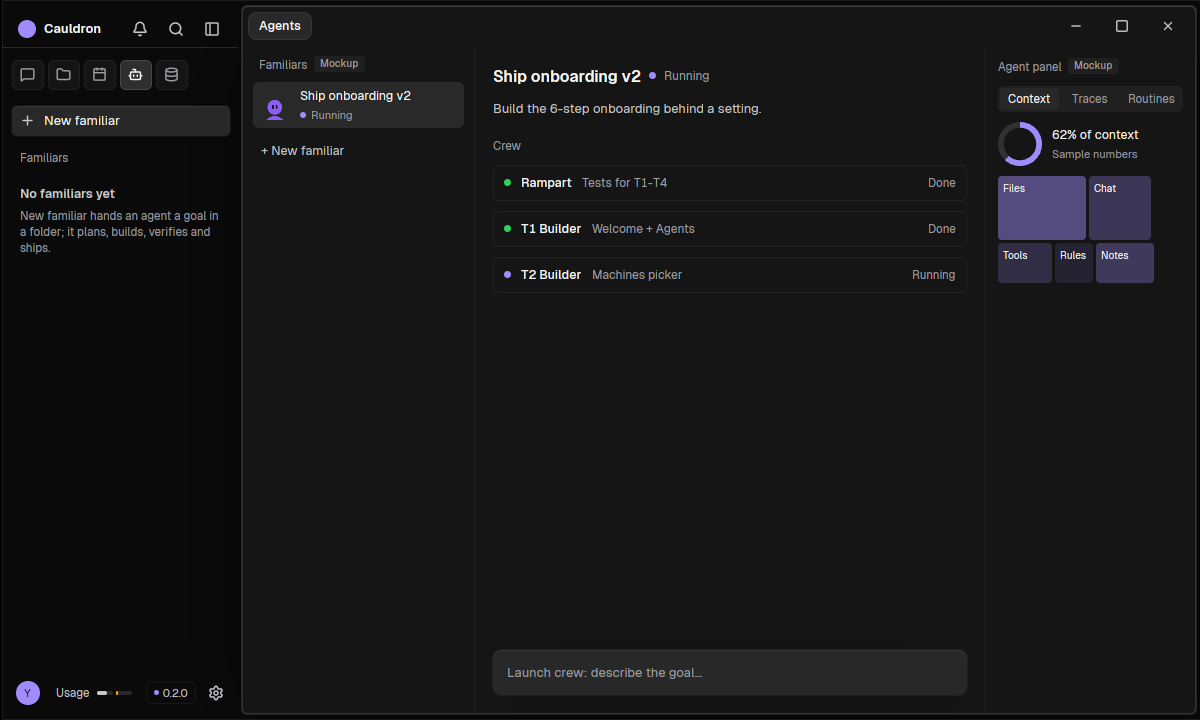
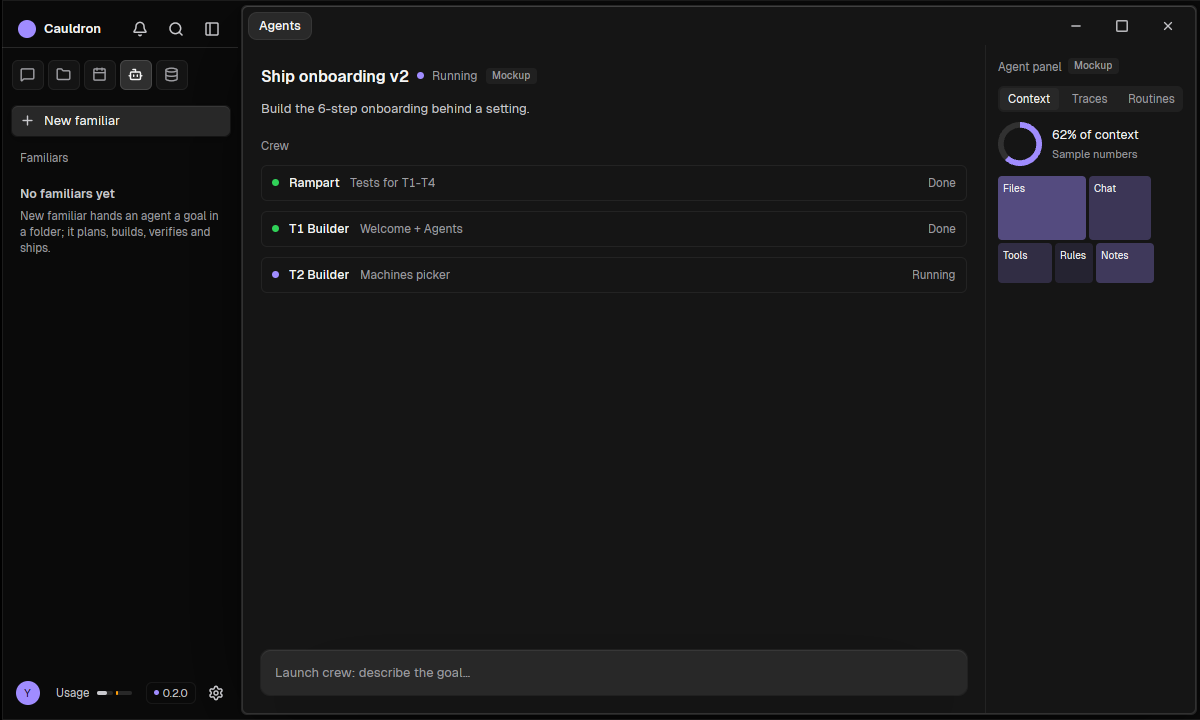
Agents: the familiar list lives in the sidebar, not inside the page
Claude-Session: https://claude.ai/code/session_01LKPD2JfHPTXwz4cCvT75UT

diff --git a/crates/app/src/shell/pages.rs b/crates/app/src/shell/pages.rs
@@ -367,39 +367,17 @@ impl Cauldron {
             FamState::Done => "Done",
             FamState::Failed => "Failed",
         };
-        let mut left = div().w(px(232.)).flex_none().h_full().flex().flex_col().gap(px(2.)).p(px(10.)).border_r_1().border_color(c(pal.line));
-        left = left.child(div().px(px(6.)).pb(px(6.)).flex().items_center().gap(px(6.)).text_size(px(11.5)).text_color(fg3).child("Familiars").children((!real).then(|| Self::mock_tag(pal))));
-        for (i, (n, _, s, _)) in roster.iter().enumerate() {
-            let on = i == sel;
-            left = left.child(
-                div()
-                    .id(("agent-row", i))
-                    .h(px(46.))
-                    .px(px(8.))
-                    .flex()
-                    .items_center()
-                    .gap(px(9.))
-                    .rounded(px(radius::CONTROL))
-                    .cursor_pointer()
-                    .when_live(on, |d| d.bg(c(pal.selected)))
-                    .hover(|d| d.bg(c(pal.hover)))
-                    .aria_label(format!("{n}, {}", state_txt(*s)))
-                    .child(img(Arc::new(Image::from_bytes(ImageFormat::Svg, avatar::svg(i, Mood::Idle, Look { px: 30., outline: false, ms: None, bust: true, ink: None }).into_bytes()))).size(px(30.)))
-                    .child(div().flex_1().min_w_0().flex().flex_col().child(div().truncate().text_size(px(12.5)).text_color(fg).child(n.clone())).child(div().flex().items_center().gap(px(5.)).text_size(px(11.)).text_color(fg3).child(div().size(px(6.)).rounded_full().bg(state_col(*s))).child(state_txt(*s))))
-                    .on_click(cx.listener(move |this, _, _, cx| {
-                        this.pages.agent = i;
-                        cx.notify();
-                    }))
-                    .test_support(),
-            );
-        }
-        left = left.child(
-            div().id("agent-new").mt(px(6.)).h(px(30.)).px(px(8.)).flex().items_center().rounded(px(radius::CONTROL)).cursor_pointer().text_size(px(12.5)).text_color(fg2).hover(|d| d.bg(c(pal.hover))).aria_label("New familiar").child("+ New familiar").on_click(cx.listener(|this, _, window, cx| this.new_familiar(window, cx))).test_support(),
-        );
         // The middle: the goal and the crew's tickets, over the composer.
         let mut mid = div().flex_1().min_w_0().h_full().flex().flex_col().p(px(18.)).gap(px(10.));
-        mid = mid.child(div().flex().items_center().gap(px(8.)).child(div().text_size(px(16.)).font_weight(FontWeight::SEMIBOLD).text_color(fg).child(name.clone())).child(div().size(px(7.)).rounded_full().bg(state_col(state))).child(div().text_size(px(12.)).text_color(fg3).child(state_txt(state))));
+        mid = mid.child(div().flex().items_center().gap(px(8.)).child(div().text_size(px(16.)).font_weight(FontWeight::SEMIBOLD).text_color(fg).child(name.clone())).child(div().size(px(7.)).rounded_full().bg(state_col(state))).child(div().text_size(px(12.)).text_color(fg3).child(state_txt(state))).children((!real).then(|| Self::mock_tag(pal))));
         mid = mid.child(div().text_size(px(13.)).line_height(px(19.)).text_color(fg2).child(goal));
+        if real {
+            mid = mid.child(div().id("agent-open").self_start().px(px(10.)).h(px(24.)).flex().items_center().rounded(px(radius::CONTROL)).bg(c(pal.raised)).shadow(lift(Lift::Button, pal)).cursor_pointer().text_size(px(12.)).aria_label("Open familiar").child("Open familiar").on_click(cx.listener(move |this, _, _, cx| {
+                this.select_section(0, cx);
+                this.open_familiar(sel);
+                cx.notify();
+            })).test_support());
+        }
         mid = mid.child(div().mt(px(8.)).text_size(px(11.5)).text_color(fg3).child("Crew"));
         for (i, (n, t, s)) in crew.iter().enumerate() {
             mid = mid.child(
@@ -455,7 +433,7 @@ impl Cauldron {
             1 => right = right.child(div().text_size(px(12.)).line_height(px(17.)).text_color(fg3).child("Traces of each tool call will list here. Not wired yet.")),
             _ => right = right.child(div().text_size(px(12.)).line_height(px(17.)).text_color(fg3).child("Routines the agent repeats will list here. Not wired yet.")),
         }
-        div().id("agents-page").size_full().flex().child(left).child(mid).child(right).test_support().into_any_element()
+        div().id("agents-page").size_full().flex().child(mid).child(right).test_support().into_any_element()
     }
 
     // ---- Library ---------------------------------------------------------------------------

diff --git a/crates/app/src/shell.rs b/crates/app/src/shell.rs
@@ -3593,6 +3593,27 @@ mod tests {
         .unwrap();
     }
 
+    /// Familiars are listed in the sidebar under Agents, not in the page; picking one shows its
+    /// crew in the page without leaving it (Charles, 21 Nov 17:25Z).
+    #[gpui_kit::test]
+    fn agents_roster_lives_in_the_sidebar(cx: &mut TestAppContext) {
+        cx.update(gpui_kit::init);
+        let handle = open(cx, Cauldron { fam_views: super::familiar::fixtures(), ..with_threads() });
+        cx.update_window(handle.into(), |_, window, cx| {
+            window.render_frame(cx);
+            window.click(("fn", 3usize), cx);
+            window.render_frame(cx);
+            assert!(window.try_find("agents-page").is_some());
+            assert!(window.try_find(("agent-row", 1usize)).is_some(), "the list is in the sidebar");
+            let (row, page) = (rect(window, ("agent-row", 0usize)), rect(window, "agents-page"));
+            assert!(row.right() <= page.x, "the row is left of the page, not inside it");
+            window.click(("agent-row", 1usize), cx);
+            window.render_frame(cx);
+            assert!(window.try_find("agents-page").is_some(), "picking one stays on the page");
+        })
+        .unwrap();
+    }
+
     /// The top row's search button opens the search row; the folded sidebar's hover indent (Tight
     /// tiles rule 6) appears when the pointer reaches the window's left edge, over the card with no
     /// reflow: search, New stream, the six apps, Settings. Leaving it hides it.

diff --git a/crates/app/src/shell/apps.rs b/crates/app/src/shell/apps.rs
@@ -93,9 +93,11 @@ impl Cauldron {
                     };
                     list = list.child(
                         row(("agent-row", i), Some(dot), f.name.clone(), familiar::state_text(f.state).into())
+                            .when_live(self.section_page && self.pages.agent == i, |d| d.bg(c(pal.selected)))
                             .on_click(cx.listener(move |this, _, _, cx| {
-                                this.select_section(0, cx);
-                                this.open_familiar(i);
+                                // The page beside shows it (Charles, 21 Nov 17:25Z: the list lives in the sidebar).
+                                this.pages.agent = i;
+                                this.select_section(3, cx);
                                 cx.notify();
                             }))
                             .test_support(),
